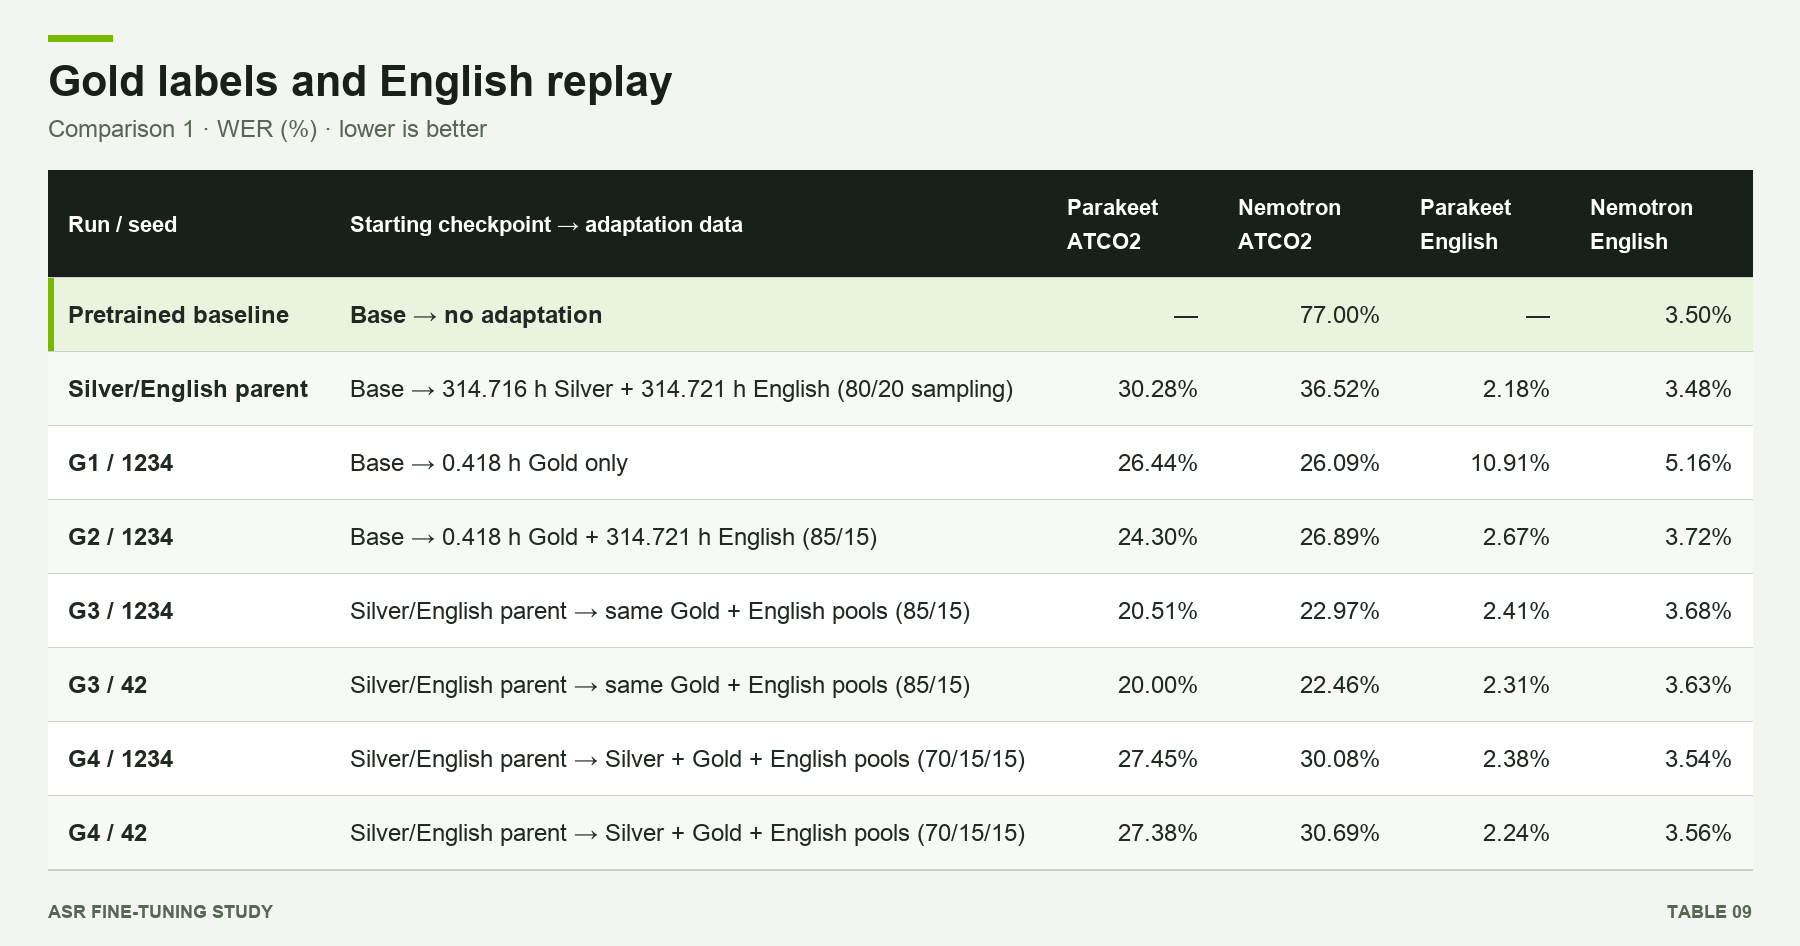
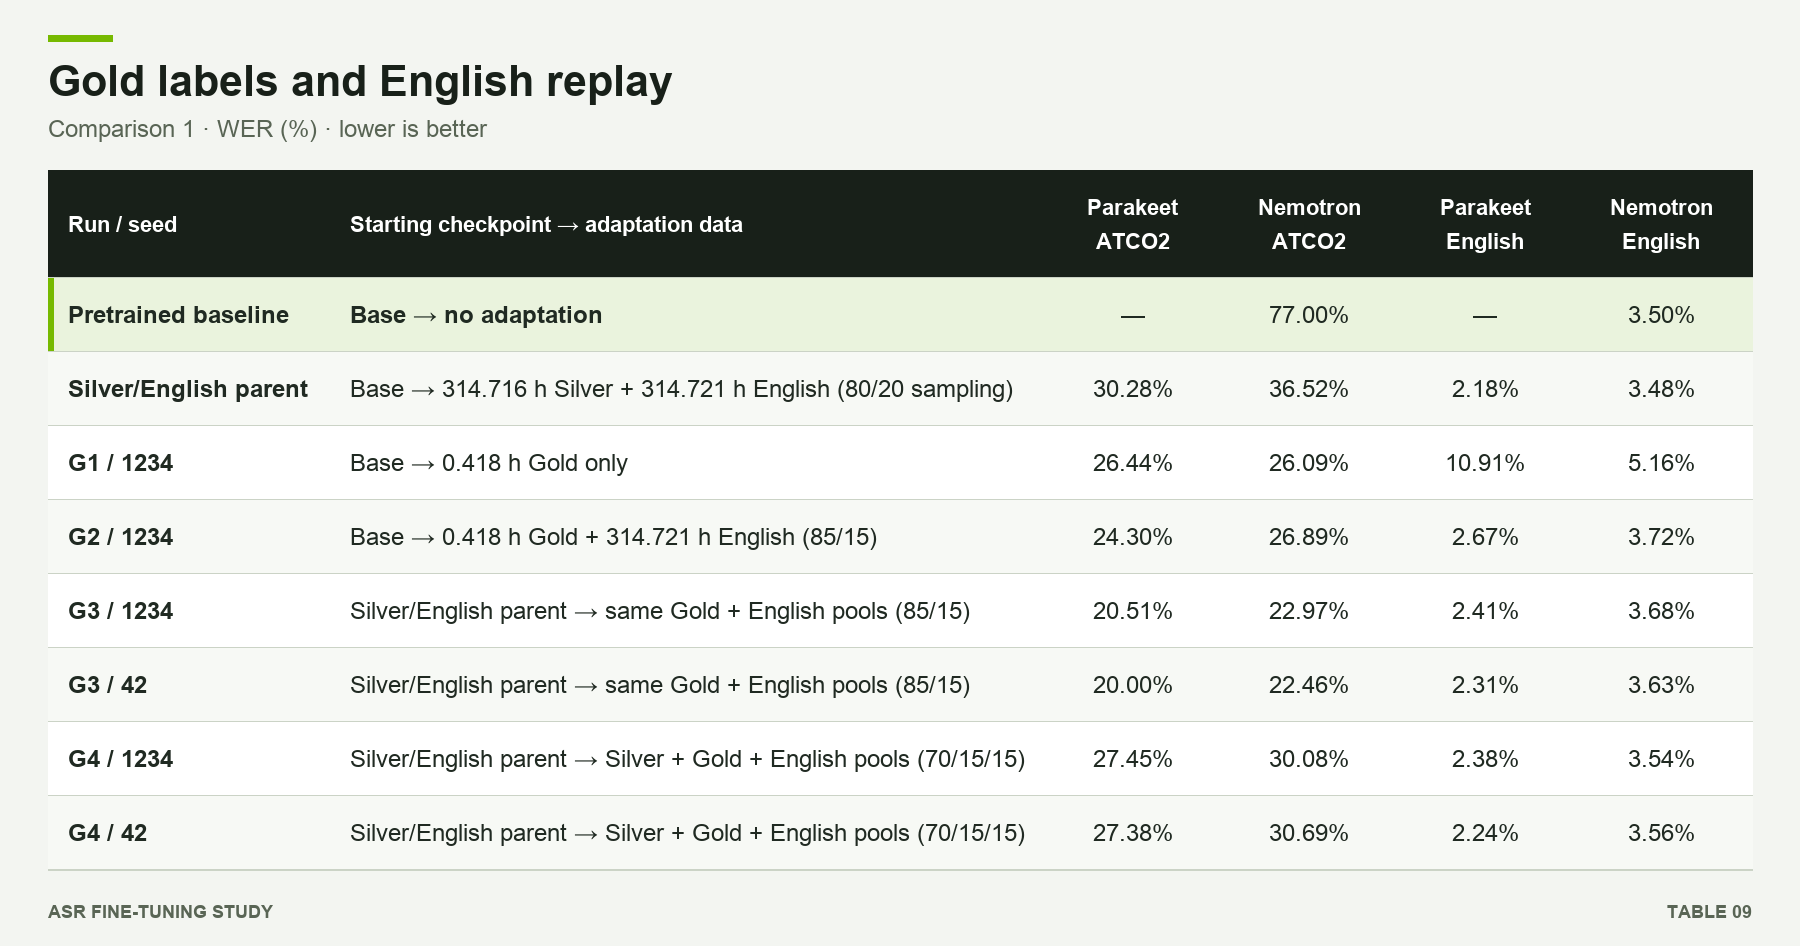
Center numeric values and headers in styled table images

diff --git a/scripts/render_blog_tables.py b/scripts/render_blog_tables.py
@@ -99,13 +99,15 @@ def render(index,raw):
  def rect(x,y,w,h,fill):
   d.rectangle((x,y,x+w,y+h),fill=fill)
   svg.append(f'<rect x="{x}" y="{y}" width="{w}" height="{h}" fill="{fill}"/>')
- def txt(x,y,s,size,color,bold=False,right=False):
+ def txt(x,y,s,size,color,bold=False,right=False,center=False):
   f=font(size,bold)
-  if right:x-=f.getlength(s)
+  if center:x-=f.getlength(s)/2
+  elif right:x-=f.getlength(s)
   d.text((x,y),s,font=f,fill=color,anchor='ls')
   svg.append(f'<text x="{x:.2f}" y="{y}" font-size="{size}" font-weight="{700 if bold else 400}" fill="{color}">{html.escape(s)}</text>')
  rect(0,0,W,H,'#F3F5F1');rect(M,35,64,6,'#76B900')
  txt(M,96,title,43,'#182019',True);txt(M,137,subtitle,24,'#596555')
+ numeric_columns={ci for ci in range(len(weights)) if all(re.fullmatch(r'[\d.,% —]+(?: h)?',plain(row[ci])) for row in rows[1:])}
  y=170
  for ri,(cells,h) in enumerate(layout):
   baseline=ri>0 and (plain(rows[ri][0]).lower().startswith('pretrained baseline') or any('fresh greedy control' in cell.lower() for cell in rows[ri]))
@@ -115,8 +117,8 @@ def render(index,raw):
   x=M
   for ci,(lines,size,bold) in enumerate(cells):
    color='#FFFFFF' if ri==0 else '#397000' if '**' in rows[ri][ci] and re.fullmatch(r'\*\*[\d.]+%\*\*',rows[ri][ci]) else '#202A22'
-   numeric=ri>0 and re.fullmatch(r'[\d.,% —]+',plain(rows[ri][ci])) is not None
-   for li,line in enumerate(lines):txt(x+widths[ci]-PAD if numeric else x+PAD,y+(h-len(lines)*LINE)/2+25+li*LINE,line,size,color,bold,numeric)
+   numeric=ci in numeric_columns
+   for li,line in enumerate(lines):txt(x+widths[ci]/2 if numeric else x+PAD,y+(h-len(lines)*LINE)/2+25+li*LINE,line,size,color,bold,center=numeric)
    x+=widths[ci]
   y+=h
   rect(M,y-1,INNER,1,'#CBD3C6')
